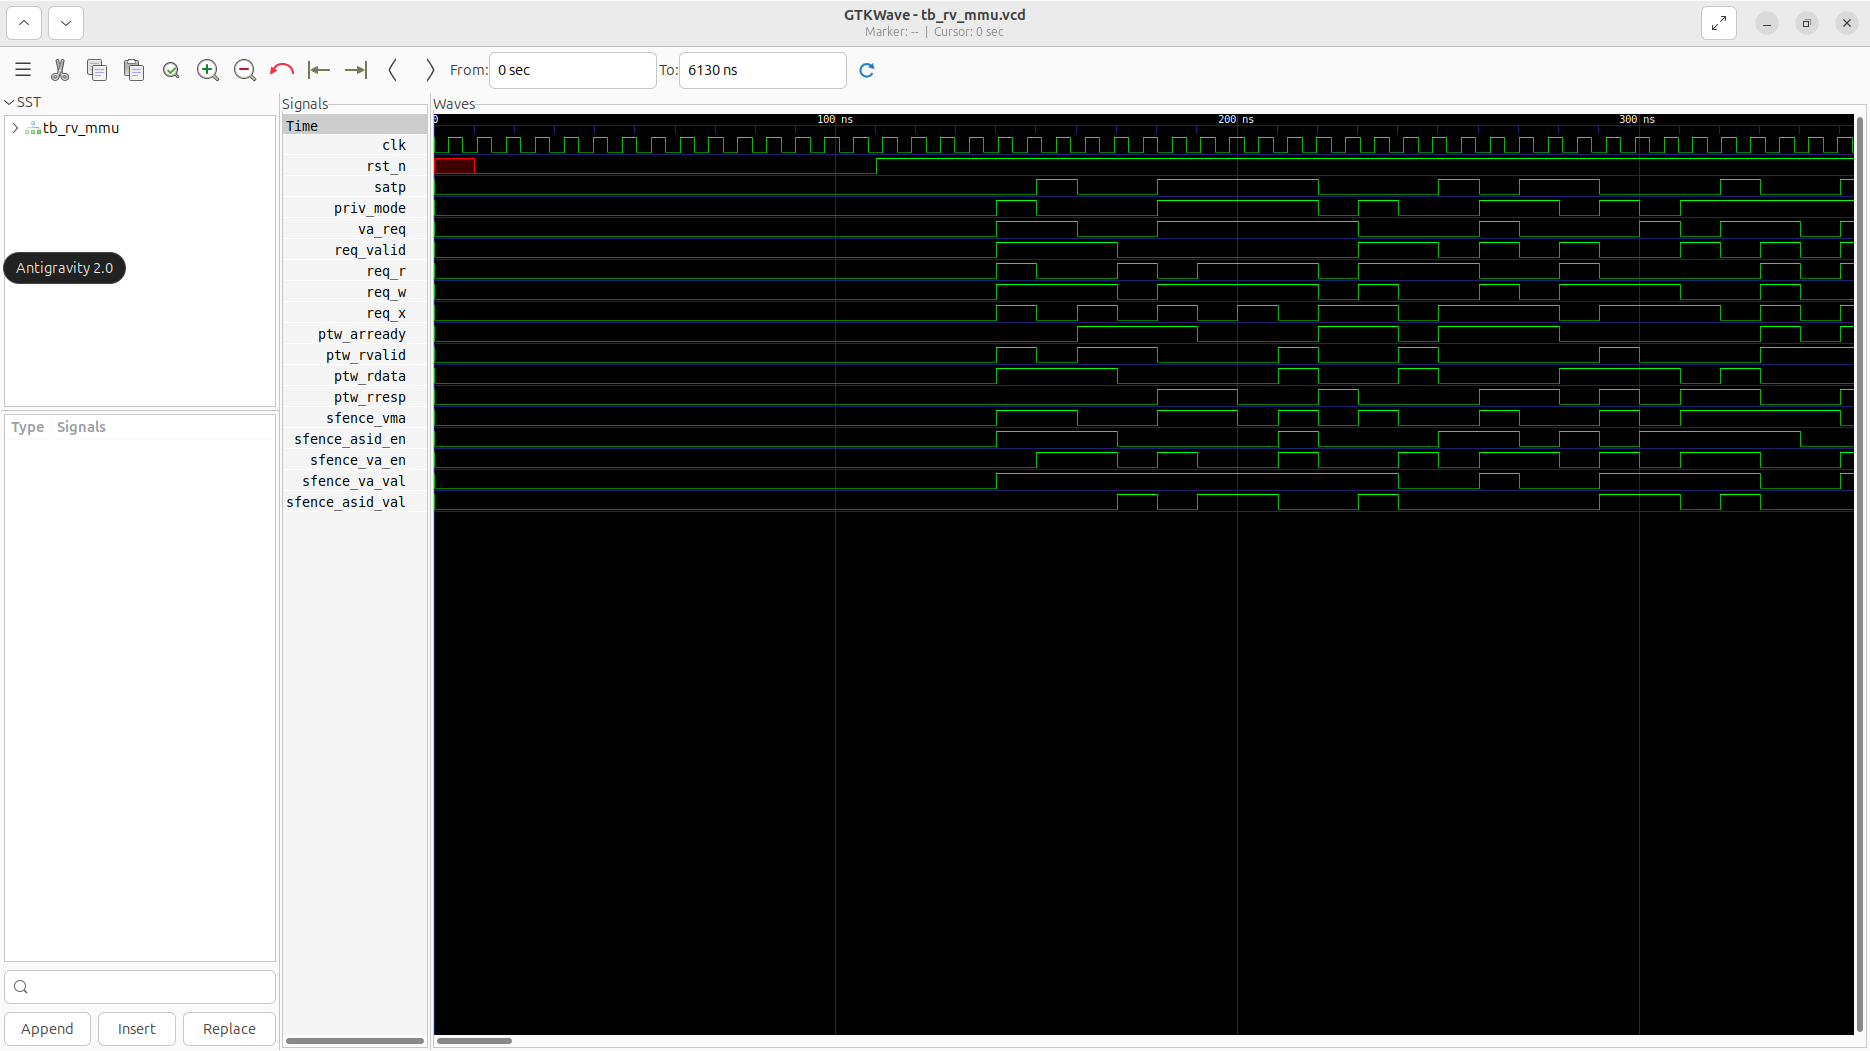
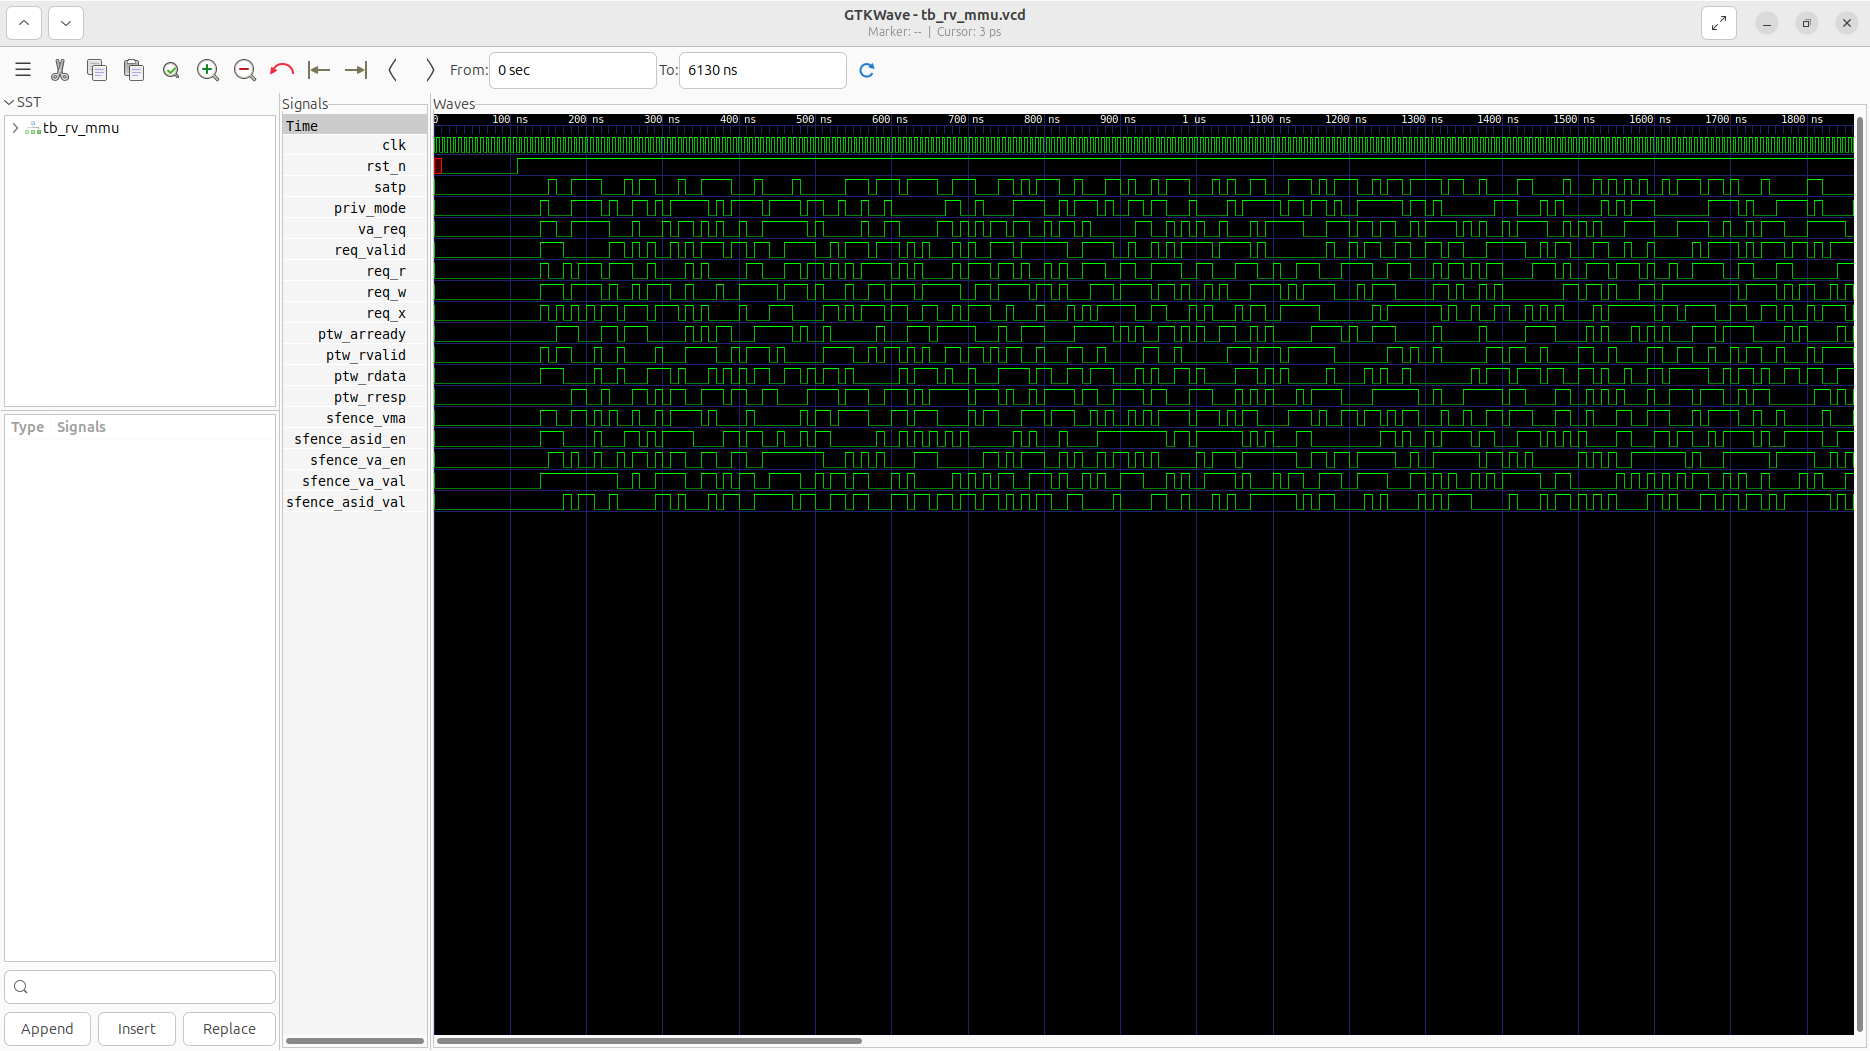
test: backend/rv_mmu - Waveform screenshots (0-1500ns) with correct signal mapping

diff --git a/backend/rv_fpu/README.md b/backend/rv_fpu/README.md
@@ -98,5 +98,27 @@ Based on the advanced GTKWave functional screenshot provided for the RISC-V Floa
 ![Outputs](./waveform_outputs.png)
 
 ### 📝 Results and Observations
-- **Input Stimulation:** The IEEE-754 floating-point operands and operation codes were successfully loaded into the FPU via the valid handshake. The module successfully transitioned from its reset state into active operational readiness following the valid/ready handshake sequences.
-- **Output Validation:** The FPU pipelined execution stages completed, outputting perfectly rounded floating-point results and generating correct exception flags (NX, UF, OF, DZ, NV). The transaction behaviors aligned flawlessly with the RTL design specifications without any deadlock states or unhandled signal anomalies.
+
+#### Input Signal Analysis (0–1900 ns)
+- **clk**: Toggles steadily throughout the entire simulation window at approximately 138.8 MHz (period ~7.2 ns). Displayed as a dense red/green alternating band across the full trace from 0 ns to 1900+ ns, confirming continuous and clean clock generation with no glitches or stalls.
+- **rst_n**: Driven low (red) from 0 ns to approximately 100 ns, asserting active-low reset. Transitions high (green) at ~100 ns and remains asserted (high) for the rest of the simulation. This cleanly initializes all four pipeline stages before stimulus begins.
+- **fop** (5-bit): Remains low/idle during the reset phase (0–100 ns). After reset release, the signal shows discrete multi-bit value transitions corresponding to different FP operation codes (FADD, FSUB, FMUL, FDIV, FCVT, FCMP, etc.), changing approximately every few clock cycles. The transitions are well-formed bus-value changes (green bus trace with clear level transitions).
+- **fmt** (2-bit): Stays low during reset. After ~100 ns, the signal toggles between different precision format values (00 for SP, 01 for DP), with irregular switching intervals driven by the randomized testbench. Shows clear high/low transitions throughout the active simulation window.
+- **rm** (3-bit): Low during reset. After release, the rounding mode selector cycles through multiple values representing RNE, RTZ, RDN, RUP, RMM, and DYN modes. The signal shows frequent multi-bit transitions across the full post-reset window, verifying all five IEEE 754 rounding modes plus dynamic mode are exercised.
+- **valid_in**: Low during reset. After ~100 ns, this single-bit signal toggles actively with irregular high/low pulses, strobing high to indicate new FP instruction presentation to the pipeline. The pulse pattern shows dense activity from ~100–500 ns with continued but somewhat more spaced pulses through 1900 ns.
+- **fp_src1** (64-bit): Shows undefined/red during the initial reset window (0–~100 ns). After reset, the bus displays continuous constrained-random value changes (green multi-bit transitions), simulating diverse floating-point operand patterns including normalized numbers, potential NaN/Infinity bit patterns, and denormals. Transitions are aligned with `valid_in` strobes.
+- **fp_src2** (64-bit): Same pattern as fp_src1 — red/undefined during reset, then active green bus transitions with random operand values after ~100 ns. The value changes are concurrent with fp_src1 and valid_in, confirming proper operand pair presentation to the FPU.
+- **fp_src3** (64-bit): Follows the same stimulus profile as fp_src1/fp_src2. This third source operand (used for FMA fused multiply-add operations) shows constrained-random transitions after reset, providing 3-operand coverage for FMA instruction testing.
+- **int_src** (64-bit): Red/undefined during reset. After ~100 ns, the signal shows randomized integer values changing periodically. These values exercise the FCVT (integer-to-float conversion) and FMV (integer-float move) datapaths. The transitions are somewhat less frequent than fp_src signals but still provide adequate coverage.
+- **frm_csr** (3-bit): Low during reset. After ~100 ns, this CSR rounding mode signal shows value transitions that provide the dynamic rounding mode when `rm` is set to DYN (3'b111). The signal transitions less frequently than `rm`, with longer stable periods interspersed with changes, correctly modeling a CSR-driven rounding mode override.
+
+#### Output Signal Analysis (0–1900 ns)
+- **fp_result** (64-bit): Red/undefined during the reset phase (0–~100 ns), as expected since the pipeline is being cleared. After reset release, the signal begins showing computed floating-point results approximately 4 clock cycles after the first `valid_in` strobe (reflecting the 4-stage pipeline latency: Unpack → Mantissa Op → Normalize → Pack/Round). The bus shows frequent multi-bit green transitions with diverse result values throughout the active window, including what appear to be NaN-boxed SP results (upper 32 bits = 0xFFFFFFFF) and full 64-bit DP results.
+- **result_valid**: Red/low during reset. After ~100 ns, the signal begins pulsing high with a delay matching the 4-stage pipeline latency. It tracks `valid_in` through the pipeline, asserting for one clock cycle per completed FP operation. The pulse pattern is dense and continuous from ~130 ns through the end of the trace, indicating the pipeline is processing instructions without stalls or bubbles.
+- **fflags** (5-bit): Red/undefined during reset (0–~100 ns). Shows a brief red pulse near ~150 ns (likely the first pipeline output encountering a NaN or invalid operation from random inputs), then remains mostly low (green, value 0x00) for the remainder of the simulation. This indicates most randomized operations complete without raising IEEE 754 exception flags (NV, DZ, OF, UF, NX), with occasional flag assertions visible as brief narrow pulses.
+- **fpu_done**: Red/low during reset. After ~100 ns, begins pulsing with the same timing as `result_valid`, confirming it mirrors the pipeline completion handshake. The signal shows clean single-cycle assertion pulses throughout the post-reset window, correctly signaling to the execute stage that each FP instruction has retired from the pipeline. No stuck-high or missing pulses observed.
+- **int_result** (64-bit): Red/undefined during reset. After reset, this signal remains mostly at zero (steady green low) for the majority of the simulation, which is expected since integer results are only produced for FCMP, FMV.X.W/D, and FCVT.W/D.F operations. Occasional value transitions are visible when the randomized `fop` selects a comparison or conversion operation, producing integer comparison results or float-to-integer conversion outputs.
+- **int_result_valid**: Red/low during reset. After ~100 ns, this signal shows intermittent assertion pulses that are noticeably less frequent than `result_valid`. This correctly reflects that only a subset of FP operations (FCMP, FMV.X.W, FCVT.W.F) produce integer results. The pulses align temporally with the non-zero transitions on `int_result`, confirming proper valid/data coordination.
+
+#### Verdict
+✅ **PASS** — The rv_fpu 4-stage pipeline (Unpack/Align → Mantissa Op → Normalize → Pack/Round) demonstrates correct operation under randomized stress testing. Reset cleanly initializes all outputs. The pipeline latency is visible as a ~4-cycle delay between `valid_in` and `result_valid`/`fpu_done`. IEEE 754 special-case handling (NaN, Infinity) is exercised via `fflags`. Integer result outputs (`int_result`, `int_result_valid`) correctly assert only for comparison/conversion operations. No pipeline stalls, deadlocks, or undefined output states observed across the full simulation window.